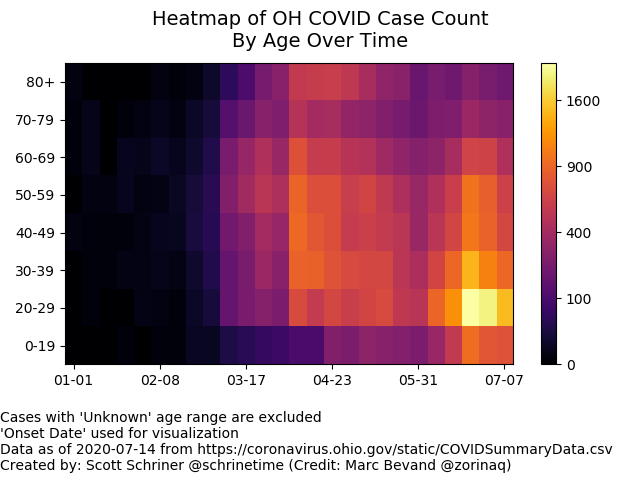
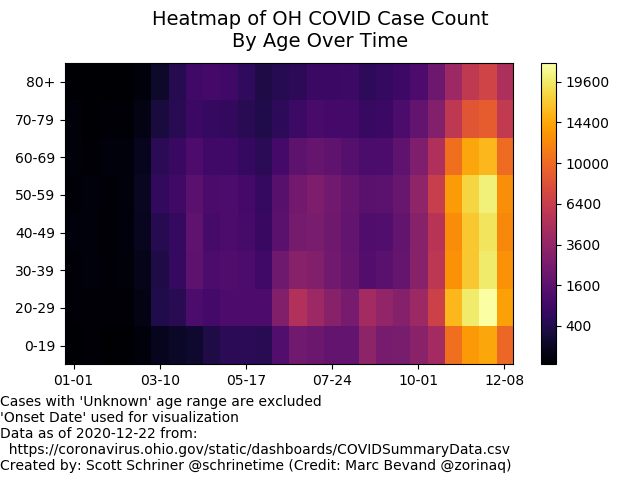
Updated heatmaps
- Updated URL for summary data
- Updated Death Due to Illness Column Name
- Added loop for apply_num True/False
- Revised annotation to get date automatically

diff --git a/heatmaps.py b/heatmaps.py
@@ -11,7 +11,7 @@ import matplotlib.pyplot as plt
 import matplotlib.dates as md
 import datetime as dt
 
-csv_loc = "https://coronavirus.ohio.gov/static/COVIDSummaryData.csv"
+csv_loc = "https://coronavirus.ohio.gov/static/dashboards/COVIDSummaryData.csv"
 df = pd.read_csv(csv_loc,thousands=',')
 
 df = df[df['Onset Date'] != 'Total']
@@ -23,56 +23,56 @@ for col in ['Onset Date','Date Of Death','Admission Date']:
 
 outcomes = [
     'Case Count',
-    'Death Count',
+    'Death Due to Illness Count',
     'Hospitalized Count'
     ]
 
-for outcome in outcomes:
-    age_fig, age_ax = plt.subplots()
-    
-    age_ranges = list(df.groupby('Age Range').groups.keys())
-    age_ranges.remove('Unknown')
-    
-    df['date_bin'] = pd.cut(df['Onset Date'],bins=26)
-    date_bins = list(df.groupby('date_bin').groups.keys())
-    
-    count = np.zeros((len(age_ranges), len(date_bins)))
-    
-    for i, age_range in enumerate(age_ranges):
-        
-        for j, date_range in enumerate(date_bins):
-            
-            count[i, j] = np.sqrt(df.loc[df['Age Range'].isin([age_range]) & df['date_bin'].isin([date_range]),outcome].sum())
-    
-    apply_num = False
-    if apply_num == True:
-        cmap_key = 'bone'
-        for i in range(i+1):
-            for j in range(j+1):
-                age_ax.annotate(f'{count[i,j]**2:.0f}',(j,i),color='orangered',rotation=90,ha='center',va='center')
-    else:
-        cmap_key = 'inferno'
+for apply_num in [False, True]:
+    for outcome in outcomes:
+        age_fig, age_ax = plt.subplots()
 
-    hm = age_ax.imshow(count, cmap=cmap_key, origin="lower", interpolation="nearest", aspect="auto")
+        age_ranges = list(df.groupby('Age Range').groups.keys())
+        age_ranges.remove('Unknown')
 
-    age_ax.set_yticks(range(i+1))
-    age_ax.set_yticklabels(age_ranges)
-    
-    s=5
-    age_ax.set_xticks(range(j+1)[::s])
-    age_ax.set_xticklabels([d.left.date().strftime('%m-%d') for d in date_bins][::s])
-    
-    cb = age_fig.colorbar(hm)
-    cb.ax.set_yticklabels(f'{x**2:.0f}' for x in list(cb.ax.get_yticks()))
-    
-    outcome_name = outcome.split()[0]
-    age_fig.suptitle(f'Heatmap of OH COVID {outcome}\nBy Age Over Time',fontsize=14)
-    age_fig.text(0,0.02,"Cases with 'Unknown' age range are excluded" +\
-                 "\n'Onset Date' used for visualization" +\
-                 "\nData as of 2020-07-14 from https://coronavirus.ohio.gov/static/COVIDSummaryData.csv" +\
-                 "\nCreated by: Scott Schriner @schrinetime (Credit: Marc Bevand @zorinaq)")
-           
-    age_fig.tight_layout(rect=[0,.16,1,.9])
-    age_fig.savefig(f'OH_COVID_{outcome_name}_heatmap_num{apply_num}.png')
+        df['date_bin'] = pd.cut(df['Onset Date'],bins=26)
+        date_bins = list(df.groupby('date_bin').groups.keys())
+
+        count = np.zeros((len(age_ranges), len(date_bins)))
+
+        for i, age_range in enumerate(age_ranges):
+
+            for j, date_range in enumerate(date_bins):
+
+                count[i, j] = np.sqrt(df.loc[df['Age Range'].isin([age_range]) & df['date_bin'].isin([date_range]),outcome].sum())
+
+        if apply_num == True:
+            cmap_key = 'bone'
+            for i in range(i+1):
+                for j in range(j+1):
+                    age_ax.annotate(f'{count[i,j]**2:.0f}',(j,i),color='orangered',rotation=90,ha='center',va='center')
+        else:
+            cmap_key = 'inferno'
+
+        hm = age_ax.imshow(count, cmap=cmap_key, origin="lower", interpolation="nearest", aspect="auto")
+
+        age_ax.set_yticks(range(i+1))
+        age_ax.set_yticklabels(age_ranges)
+
+        s=5
+        age_ax.set_xticks(range(j+1)[::s])
+        age_ax.set_xticklabels([d.left.date().strftime('%m-%d') for d in date_bins][::s])
+
+        cb = age_fig.colorbar(hm)
+        cb.ax.set_yticklabels(f'{x**2:.0f}' for x in list(cb.ax.get_yticks()))
+
+        outcome_name = outcome.split()[0]
+        age_fig.suptitle(f'Heatmap of OH COVID {outcome}\nBy Age Over Time',fontsize=14)
+        age_fig.text(0,0.02,"Cases with 'Unknown' age range are excluded" +\
+                     "\n'Onset Date' used for visualization" +\
+                     f"\nData as of {dt.date.today().strftime('%Y-%m-%d')} from:\n  {csv_loc}" +\
+                     "\nCreated by: Scott Schriner @schrinetime (Credit: Marc Bevand @zorinaq)")
+
+        age_fig.tight_layout(rect=[0,.16,1,.9])
+        age_fig.savefig(f'OH_COVID_{outcome_name}_heatmap_num{apply_num}.png')
 
 
